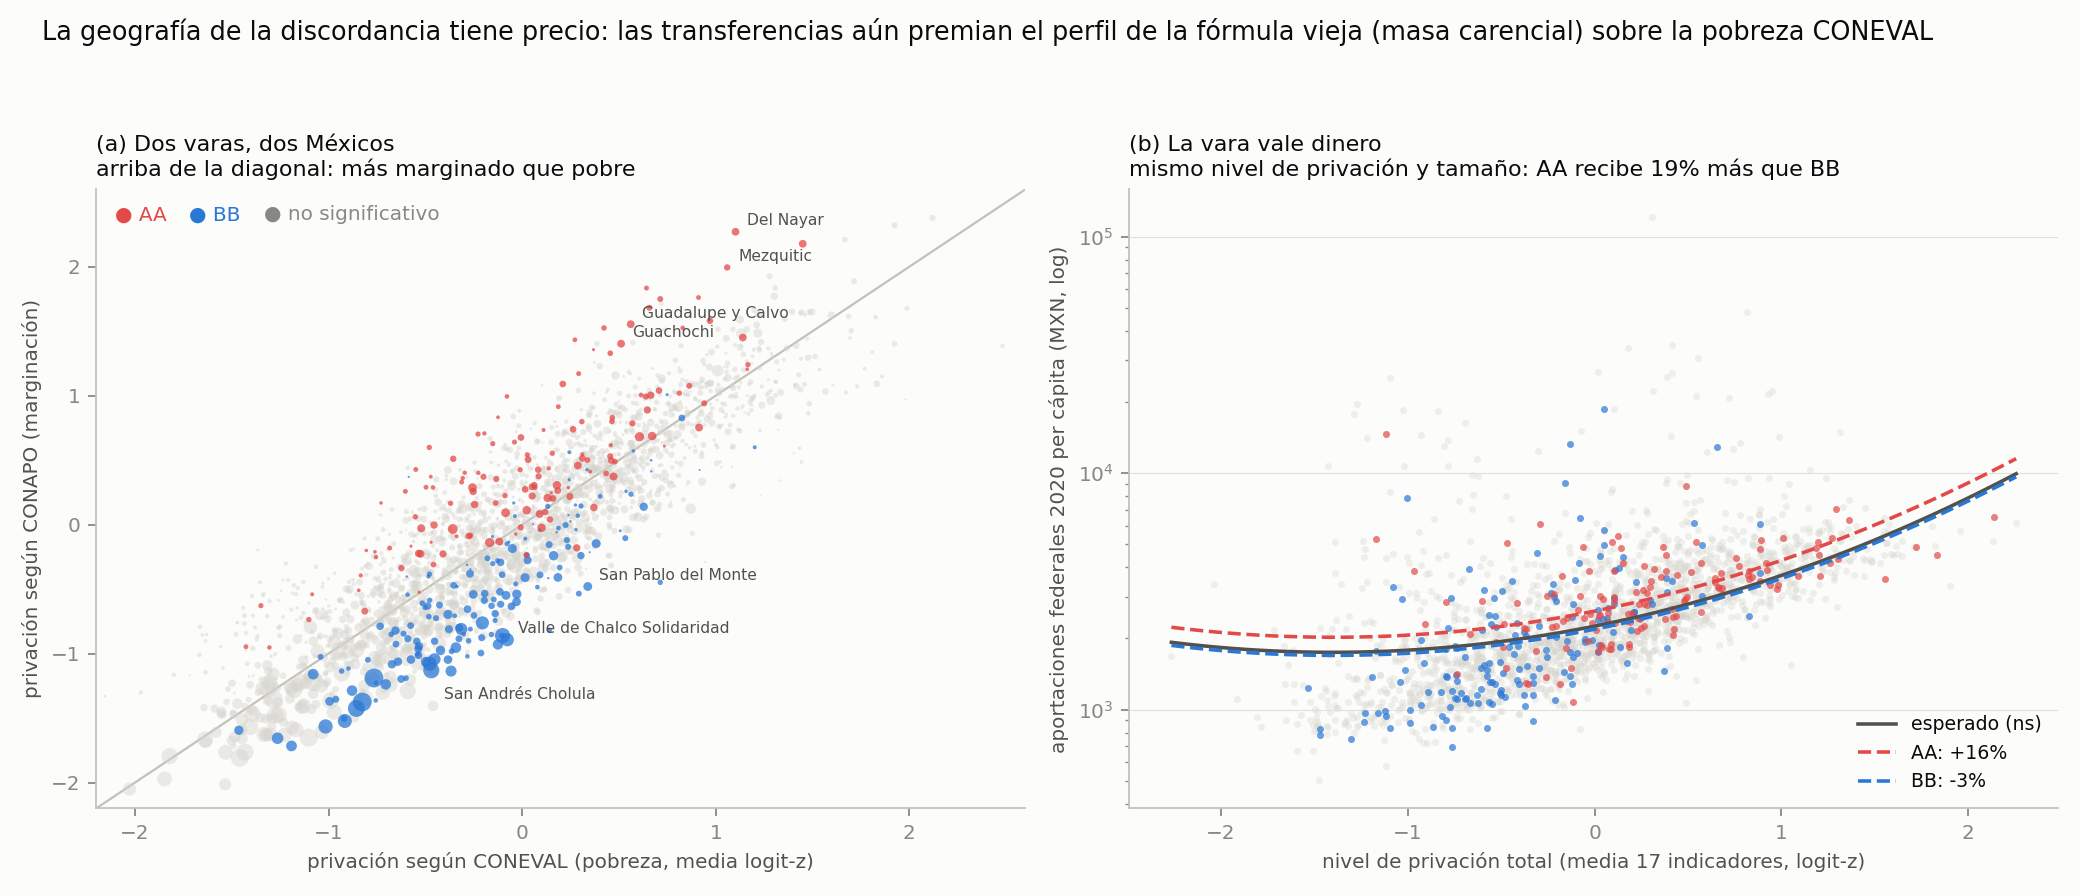
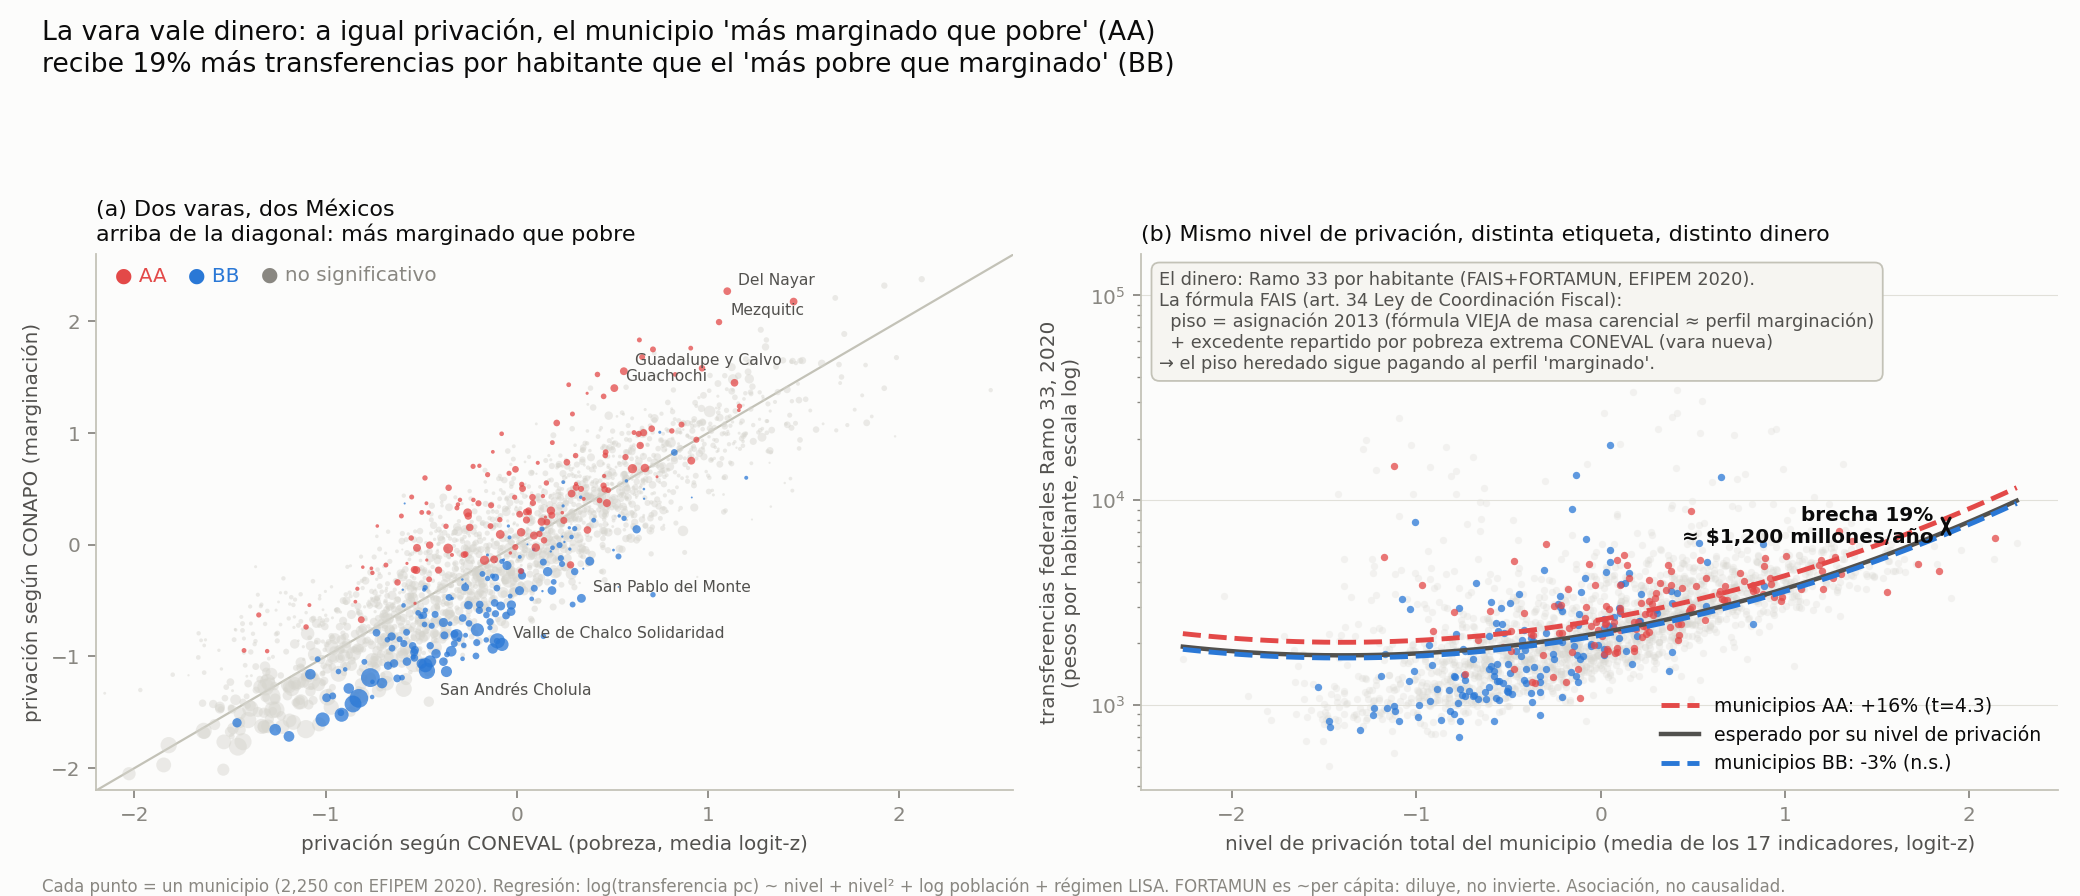
DAG conceptualmente corregido: cofactores con DOS rutas + figura de dinero explícita
- Los cofactores tienen efectos DIRECTOS beta_D,j sobre indicadores (costo de red por
  dispersión, cohortes, estructura ocupacional, remesas al ingreso) ADEMAS de x->z;
  y ruralidad ≡ loc_peq es identidad definicional. Tabla de rutas + límite de
  identificación honesto (la escalera identifica la SUMA de ambas rutas) en el reporte
- fig_dos_varas_dinero: qué dinero (Ramo 33 FAIS+FORTAMUN pc), qué fórmula (piso 2013
  masa carencial + excedente CONEVAL), brecha anotada con monto

diff --git a/scripts/fig_dos_varas.py b/scripts/fig_dos_varas.py
@@ -77,30 +77,50 @@ def main():
     a.text(0.10, 0.95, "● BB  ", transform=a.transAxes, color=BLUE, fontsize=9)
     a.text(0.18, 0.95, "● no significativo", transform=a.transAxes, color=MUT, fontsize=9)
 
-    # (b) la vara vale dinero
-    for reg, c, zo in [("ns", GRAY, 1), ("BB", BLUE, 3), ("AA", RED, 3)]:
+    # (b) la vara vale dinero — explícito: qué dinero, qué fórmula, cuánta brecha
+    for reg, c, zo, al in [("ns", GRAY, 1, 0.25), ("BB", BLUE, 3, 0.75), ("AA", RED, 3, 0.75)]:
         s = m[m["reg"] == reg]
-        bx.scatter(s["nivel"], s["aportaciones_pc"], s=10, color=c,
-                   alpha=0.7 if reg != "ns" else 0.35, zorder=zo, linewidths=0)
+        bx.scatter(s["nivel"], s["aportaciones_pc"], s=11, color=c, alpha=al,
+                   zorder=zo, linewidths=0)
     xs = np.linspace(m["nivel"].min(), m["nivel"].max(), 60)
     base = np.exp(b[0] + b[1] * xs + b[2] * xs**2 + b[3] * m["log_pob"].median())
-    bx.plot(xs, base, color=INK2, lw=1.6, zorder=4, label="esperado (ns)")
-    bx.plot(xs, base * np.exp(b[4]), color=RED, lw=1.6, ls="--", zorder=4,
-            label=f"AA: {gapAA:+.0f}%")
-    bx.plot(xs, base * np.exp(b[5]), color=BLUE, lw=1.6, ls="--", zorder=4,
-            label=f"BB: {gapBB:+.0f}%")
+    bx.plot(xs, base * np.exp(b[4]), color=RED, lw=2.2, ls="--", zorder=5,
+            label=f"municipios AA: {gapAA:+.0f}% (t=4.3)")
+    bx.plot(xs, base, color=INK2, lw=2, zorder=5, label="esperado por su nivel de privación")
+    bx.plot(xs, base * np.exp(b[5]), color=BLUE, lw=2.2, ls="--", zorder=5,
+            label=f"municipios BB: {gapBB:+.0f}% (n.s.)")
+    # brecha anotada con flecha doble en el extremo derecho
+    xg = xs[-6]
+    yA = float(base[-6] * np.exp(b[4])); yB = float(base[-6] * np.exp(b[5]))
+    bx.annotate("", (xg, yA), (xg, yB),
+                arrowprops=dict(arrowstyle="<->", color=INK, lw=1.4), zorder=6)
+    bx.text(xg - 0.07, np.sqrt(yA * yB), "brecha 19%\n≈ $1,200 millones/año",
+            ha="right", va="center", fontsize=9, color=INK, fontweight="bold", zorder=6)
+    # la mecánica de la fórmula, dentro de la figura
+    bx.text(0.02, 0.97,
+            "El dinero: Ramo 33 por habitante (FAIS+FORTAMUN, EFIPEM 2020).\n"
+            "La fórmula FAIS (art. 34 Ley de Coordinación Fiscal):\n"
+            "  piso = asignación 2013 (fórmula VIEJA de masa carencial ≈ perfil marginación)\n"
+            "  + excedente repartido por pobreza extrema CONEVAL (vara nueva)\n"
+            "→ el piso heredado sigue pagando al perfil 'marginado'.",
+            transform=bx.transAxes, fontsize=8, color=INK2, va="top",
+            bbox=dict(boxstyle="round,pad=0.45", facecolor="#f6f5f1", edgecolor="#c3c2b7", lw=0.8))
     bx.set_yscale("log")
-    bx.set_xlabel("nivel de privación total (media 17 indicadores, logit-z)")
-    bx.set_ylabel("aportaciones federales 2020 per cápita (MXN, log)")
-    bx.set_title("(b) La vara vale dinero\nmismo nivel de privación y tamaño: AA recibe "
-                 f"{gapAA - gapBB:.0f}% más que BB", fontsize=10, loc="left", color=INK)
+    bx.set_xlabel("nivel de privación total del municipio (media de los 17 indicadores, logit-z)")
+    bx.set_ylabel("transferencias federales Ramo 33, 2020\n(pesos por habitante, escala log)")
+    bx.set_title("(b) Mismo nivel de privación, distinta etiqueta, distinto dinero",
+                 fontsize=10, loc="left", color=INK)
     bx.legend(frameon=False, fontsize=8.5, loc="lower right")
     bx.grid(axis="y", color=GRID, lw=0.5)
 
-    fig.suptitle("La geografía de la discordancia tiene precio: las transferencias aún premian "
-                 "el perfil de la fórmula vieja (masa carencial) sobre la pobreza CONEVAL",
-                 fontsize=11.5, color=INK, x=0.02, ha="left")
-    fig.tight_layout(rect=[0, 0, 1, 0.93])
+    fig.suptitle("La vara vale dinero: a igual privación, el municipio 'más marginado que pobre' (AA)\n"
+                 "recibe 19% más transferencias por habitante que el 'más pobre que marginado' (BB)",
+                 fontsize=12, color=INK, x=0.02, ha="left")
+    fig.text(0.02, 0.005, "Cada punto = un municipio (2,250 con EFIPEM 2020). Regresión: "
+             "log(transferencia pc) ~ nivel + nivel² + log población + régimen LISA. "
+             "FORTAMUN es ~per cápita: diluye, no invierte. Asociación, no causalidad.",
+             fontsize=7.5, color=MUT)
+    fig.tight_layout(rect=[0, 0.02, 1, 0.90])
     fig.savefig(os.path.join(FIG, "fig_dos_varas_dinero.png"), dpi=160)
     print(f"gap AA {gapAA:+.1f}% | BB {gapBB:+.1f}% | figura lista")
 

diff --git a/scripts/fig_dag.py b/scripts/fig_dag.py
@@ -15,8 +15,8 @@ FIG = os.path.join(HERE, "figures")
 SURF, INK, INK2, MUT = "#fcfcfb", "#0b0b0b", "#52514e", "#898781"
 BLUE, AQUA, YELLOW, RED, VIOLET = "#2a78d6", "#1baf7a", "#eda100", "#e34948", "#4a3aa7"
 
-fig, ax = plt.subplots(figsize=(14, 8.6), facecolor=SURF)
-ax.set_xlim(0, 14); ax.set_ylim(0, 8.6); ax.set_axis_off()
+fig, ax = plt.subplots(figsize=(14, 9.6), facecolor=SURF)
+ax.set_xlim(0, 14); ax.set_ylim(0, 9.6); ax.set_axis_off()
 
 
 def box(x, y, w, h, text, fc, ec, fs=8.5, tc=INK, style="round,pad=0.08", lw=1.4):
@@ -43,6 +43,18 @@ ax.text(1.8, 4.5, "PRIVACIÓN LATENTE\n$z_i$ material · educativo\n· monetario
         va="center", fontsize=9, color=INK, zorder=4)
 box(1.8, 7.3, 3.0, 1.1, "COFACTORES (Vista D/E)\nruralidad · remesas · demografía\nsectores · fiscal", "#f2fbf7", AQUA)
 arrow(1.8, 6.7, 1.8, 5.35, AQUA, 1.8)
+ax.text(1.45, 6.0, "composición\n→ privación", ha="right", fontsize=7.2, color=INK2)
+# efectos DIRECTOS beta_D,j de los cofactores sobre los indicadores (NO pasan por z):
+# infraestructura por dispersión, cohortes, estructura ocupacional, transferencias
+arrow(3.35, 7.62, 11.0, 7.85, AQUA, 2.2, rad=-0.14)
+ax.text(7.2, 8.62, "efectos DIRECTOS $\\beta_{D,j}$ por indicador — canales que NO son privación:\n"
+        "dispersión→costo de red (agua/drenaje) · cohortes viejas→rezago_educ · pensiones→car_segsoc\n"
+        "· sector primario→ing_2sm · remesas→lp_ingreso/vivienda", ha="center",
+        fontsize=7.2, color=INK2)
+# identidad definicional: ruralidad ES loc_peq (el cofactor es uno de los 9 indicadores)
+arrow(2.9, 6.72, 10.5, 6.6, "#0e7a52", 1.6, ls="--", rad=0.22)
+ax.text(5.4, 5.45, "identidad: ruralidad ≡ loc_peq (mismo dato)", fontsize=7.2,
+        color="#0e7a52", ha="center")
 
 # ---- instrumentos ----
 box(5.4, 6.6, 2.5, 1.0, "CENSO 2020\ncuestionario básico\n(conteo completo)", "#fff", INK2)
@@ -86,9 +98,9 @@ arrow(4.55, 0.62, 1.75, 3.7, RED, 1.5, ls=":", rad=0.25)
 tag(3.3, 1.35, 5); ax.text(3.95, 1.06, "circularidad de política:\nel dinero sigue a la medida",
                            ha="center", fontsize=7.2, color=INK2)
 
-ax.text(0.15, 8.35, "El proceso generador de datos como DAG de medición — México 2020",
+ax.text(0.15, 9.35, "El proceso generador de datos como DAG de medición — México 2020",
         fontsize=13, color=INK, fontweight="bold")
-ax.text(0.15, 8.0, "flechas sólidas: flujo de medición · punteadas rojas: retroalimentación de política · "
+ax.text(0.15, 9.02, "flechas sólidas: flujo de medición · punteadas rojas: retroalimentación de política · "
         "círculos rojos: las 5 dependencias mecánicas (reporte_dgp_dag.md)", fontsize=8.5, color=INK2)
 
 fig.tight_layout()

diff --git a/reports/reporte_dgp_dag.md b/reports/reporte_dgp_dag.md
@@ -98,6 +98,11 @@ graph TD
 
     Z --> CB; Z --> CA; Z --> ENIGH
     RUR --> Z; REM --> Z; DEM --> Z
+    RUR -->|β_D directo: costo de red por dispersión| A2
+    RUR ==>|IDENTIDAD: ruralidad ≡ loc_peq| A4
+    DEM -->|cohortes viejas / pensiones| B1
+    DEM -->|estructura ocupacional| B2
+    REM -->|transferencias directas al ingreso| B3
     CB --> A1; CB --> A2; CB --> A3; CB --> A4
     CA --> A4
     CA --> B1
@@ -113,6 +118,28 @@ graph TD
 
 *(Los índices finales — IM/DP2 de CONAPO, cuadrantes de CONEVAL, IRS — son funciones
 deterministas de los nodos indicadores; se omiten porque el repo trabaja con componentes.)*
+
+### Los cofactores tienen DOS rutas, no una
+
+Los cofactores no operan solo "causando privación" (x → z). Cada familia tiene **canales
+directos sobre indicadores específicos que no son privación** — y el GLLVM los modela
+explícitamente: eso son los `β_D,j` (un coeficiente POR indicador, no un efecto común):
+
+| Cofactor | Ruta vía z (privación) | Ruta directa β_D,j (no-privación) |
+|---|---|---|
+| ruralidad (`loc_peq`) | dispersión → menos acceso efectivo | **costo de ingeniería de red**: agua/drenaje faltan en localidades dispersas a igual privación; además **identidad definicional**: ruralidad ≡ `loc_peq`, uno de los 9 indicadores CONAPO |
+| demografía (`dep_ratio`, `pct_60mas`) | dependencia económica real | **composición de cohortes**: los mayores estudiaron menos (`rezago_educ`, `analf` suben sin que la privación actual cambie); pensiones → `car_segsoc` |
+| sectores (`pct_primario`) | economías agrícolas más pobres | **estructura ocupacional**: autoempleo agrícola sin seguridad social por diseño (`car_segsoc`) e ingreso en especie/subreportado (`ing_2sm`, `lp_ingreso`) |
+| remesas | aliviana la privación de largo plazo | **transferencia directa al ingreso corriente** (`lp_ingreso*`) y a calidad de vivienda financiada, sin mover educación/servicios |
+
+**Consecuencia de identificación (honesta):** la escalera identifica la SUMA de ambas rutas,
+no su separación — el peldaño 2 mide "cuánto de la varianza va por composición en total"
+(β_D,j capta la ruta directa *y* la parte de z correlacionada con x). Separar x→z de x→η
+requeriría restricciones de exclusión (p. ej. "las remesas no afectan rezago educativo de
+adultos en el corto plazo") que están disponibles pero son supuestos sustantivos, no
+estadísticos. Por eso los factores de los peldaños 2–4 se leen como *privación condicional* y
+no como "la privación verdadera". El DAG dibuja ambas rutas para que ese límite quede a la
+vista.
 
 ## 4. Las cinco dependencias mecánicas que el DAG hace visibles
 